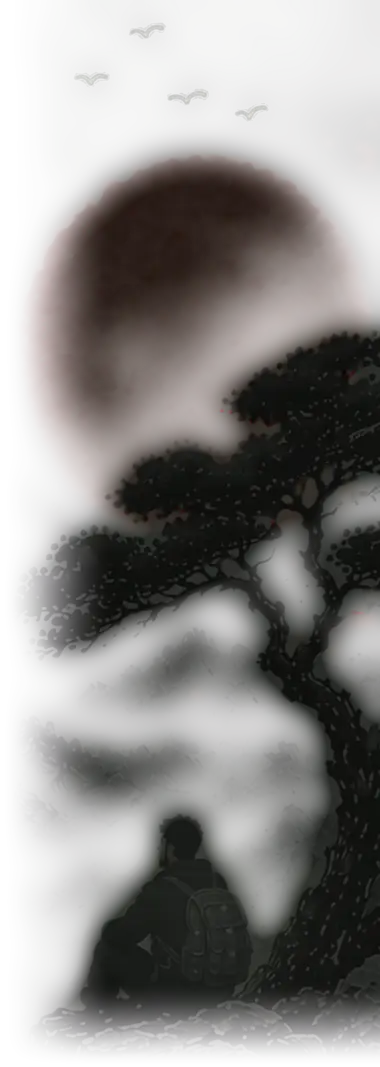
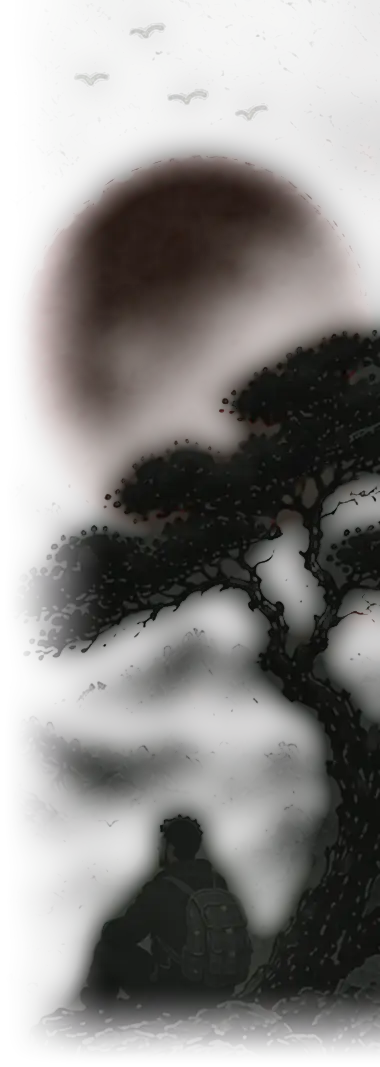
Alpha never falls below the ink it carries, and the birds are inked in
Two reports, one cause. On a monitor and on both phones the birds were
invisible in light mode, and the man under the tree looked cut out and
pasted onto a sheet that was otherwise one flat colour.

The envelope was the bug. Making the alpha a smooth broad coverage
rather than a per-pixel key was right -- it took the day file from
260KB to 83KB -- but a pixel at 55% alpha cannot be darker than 55% of
the way to black, however dark the ink in it is. So everything the
picture draws THINLY went pale: the birds, the mist, the far
mountains. The dense mass round the figure kept full strength, which
is precisely what made him look isolated. It was never his edge; it
was everything else fading out from under him.

Alpha is now the envelope OR the ink density, whichever is greater.
Measured against the poster over the whole frame: mean error 0.06 of
255, worst percentile 0.9. The file grows by 18KB, which is what
carrying the thin strokes honestly costs.

And the birds are deepened in the day cut, the way the night cut
already lights them. The poster draws them at 160 on a 207 sheet --
a bird at poster size, nothing at a card's. They are inked to 117:
the same mark, read at the size it is actually shown. The night cut
is untouched.

diff --git a/scripts/build_connect_art.py b/scripts/build_connect_art.py
@@ -128,8 +128,15 @@ def envelope(key, fade):
     says nothing the colour does not already say. The envelope is smooth,
     so it compresses to nothing, and the detail lives in the colour where
     it belongs."""
-    env = ndimage.gaussian_filter(key, 16)
-    return np.clip(env * 1.9, 0, 1) * fade
+    env = np.clip(ndimage.gaussian_filter(key, 16) * 1.9, 0, 1)
+    # ...but never below the ink it has to carry. A pixel at 55% alpha
+    # cannot be darker than 55% of the way to black, however dark the ink
+    # in it is, so a smooth envelope alone washed out everything the
+    # picture draws THINLY -- the birds came out at 159 where they should
+    # be 93, and the mist with them, while the dense mass round the man
+    # stayed at full strength. That is what made him look cut out and
+    # pasted on: it was not his edge, it was everything else fading.
+    return np.maximum(env, key) * fade
 
 
 def unmultiply(target, sheet, a):
@@ -149,11 +156,19 @@ def quiet(rgb, a, toward):
     return rgb * w + toward * (1 - w)
 
 
-def build_day(rgb, key, fade):
+def build_day(rgb, key, fade, bird):
     seen = rgb * key[..., None] + PAPER * (1 - key[..., None])
     a = envelope(key, fade)
-    return save(quiet(unmultiply(seen, PAPER, a), a, PAPER), a * 255.0,
-                "ink-scene.webp")
+    out = quiet(unmultiply(seen, PAPER, a), a, PAPER)
+    # The birds are inked in, the same way the night cut lights them.
+    # The poster draws them at 160 on a 207 sheet, which is a bird at
+    # poster size and nothing at all at a card's -- reported as no
+    # visible birds at all, on a monitor and on both phones. Deepened to
+    # 117, which is the same mark, read at the size it is actually shown.
+    w = (bird * 0.92)[..., None]
+    out = out * (1 - w) + np.array([44, 42, 39]) * w
+    a = np.maximum(a, bird * 0.90)
+    return save(out, a * 255.0, "ink-scene.webp")
 
 
 def build_night(rgb, lum, key, fade, bird):
@@ -241,7 +256,7 @@ def main():
     bird = birds(lum, key, sun_disc(seen))
     print("  from print-art.png %s, keyed on ink and faded in the alpha"
           % (CROP,))
-    build_day(rgb, key, fade)
+    build_day(rgb, key, fade, bird)
     build_night(rgb, lum, key, fade, bird)
     build_seals()
     return 0
